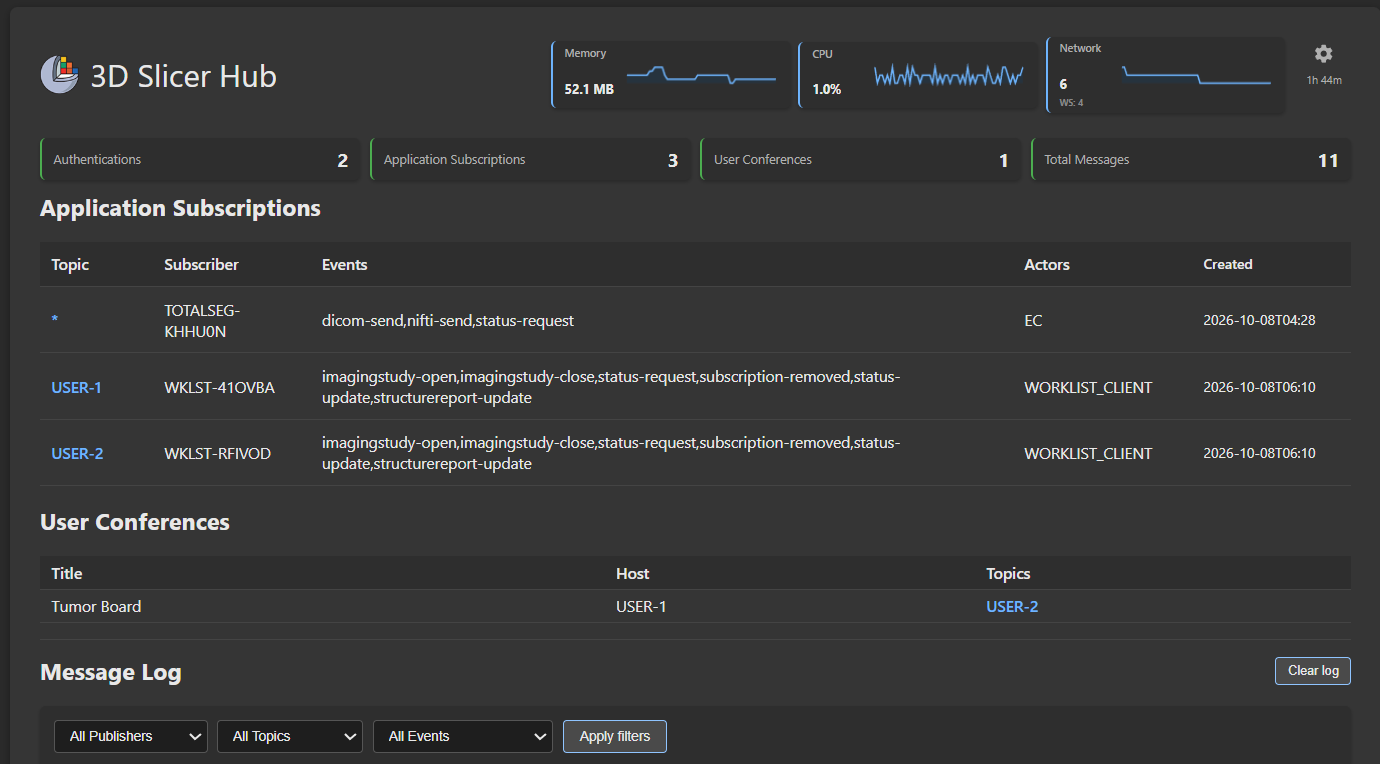
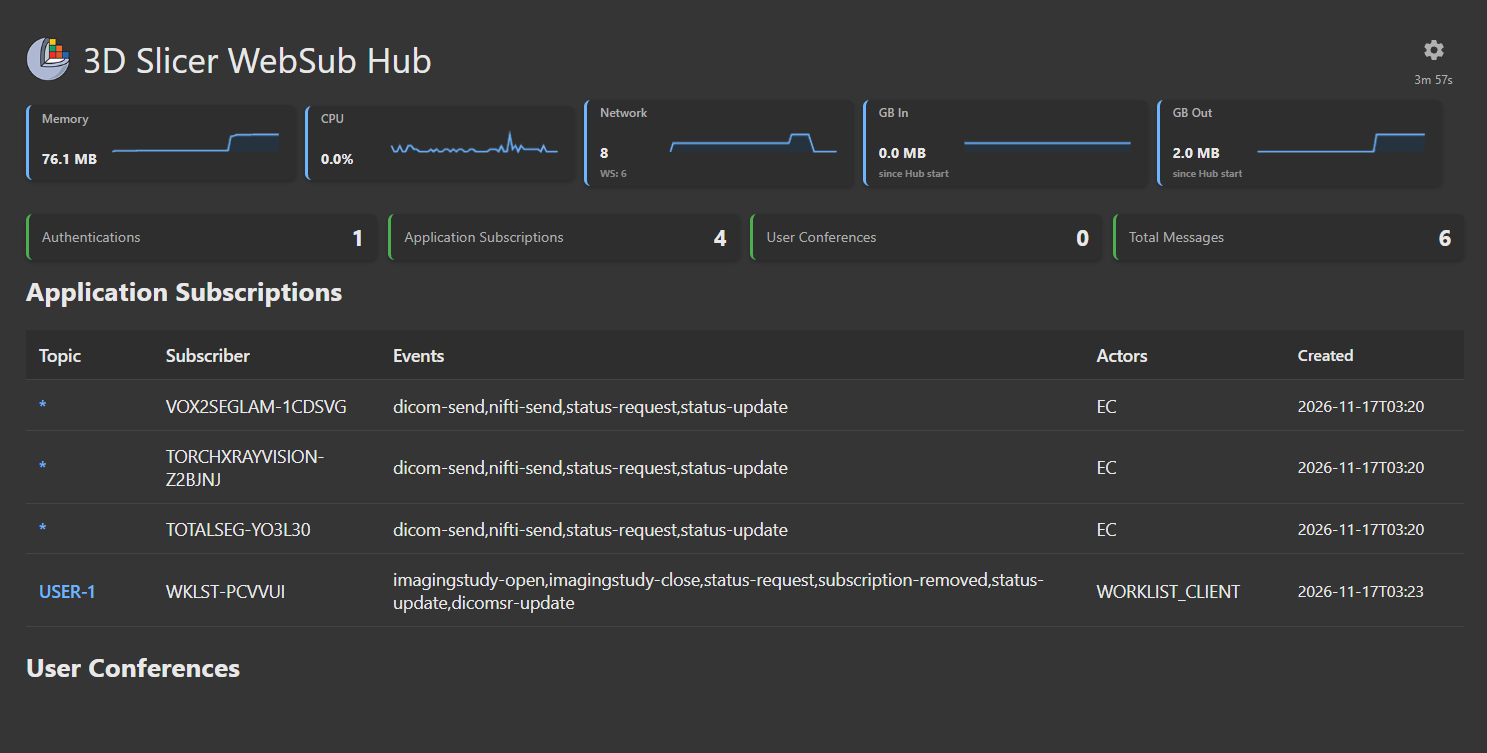
Enhance README.md with new worker control image

diff --git a/WebSubInterface/hub/Resources/admin.html b/WebSubInterface/hub/Resources/admin.html
@@ -3,7 +3,7 @@
 <head>
     <meta charset="UTF-8">
     <meta name="viewport" content="width=device-width, initial-scale=1.0">
-    <title>3D Slicer WebSub</title>
+    <title>3D Slicer WebSub Hub</title>
     <link rel="icon" id="app-favicon" type="image/png" href="/static/images/3DSlicer-DesktopIcon.png">
     <style>
         :root {
@@ -270,6 +270,7 @@
         h1.page-header {
             flex-wrap: wrap;
             justify-content: space-between;
+            align-items: center;
             gap: 12px;
             padding-bottom: 4px;
         }
@@ -534,11 +535,9 @@
             display: flex;
             gap: 8px;
             margin: 0;
-            flex-wrap: nowrap;
+            flex: 1 0 100%;
+            flex-wrap: wrap;
             align-items: center;
-        }
-        .header-actions .metrics-row {
-            margin-right: 4px;
         }
         .metric-card {
             background: var(--bg-muted);
@@ -1027,10 +1026,10 @@
             window.addEventListener('blur', deactivateShiftPolka);
             const isSlicer = theme === '3dslicer';
             const HUB_PRODUCT_NAME = isSlicer
-                ? '3D Slicer WebSub'
+                ? '3D Slicer WebSub Hub'
                 : 'Server Hub API';
             document.title = isSlicer
-                ? '3D Slicer WebSub'
+                ? '3D Slicer WebSub Hub'
                 : 'VolView Server Hub API';
             const favicon = document.getElementById('app-favicon');
             if (favicon) {
@@ -1102,41 +1101,9 @@
             <div class="header-brand">
                 <img class="header-logo-volview" src="/static/images/hub-radio-favicon.svg" alt="Hub">
                 <img class="header-logo-slicer" src="/static/images/3DSlicer-DesktopIcon.png" alt="3D Slicer">
-                <span class="header-title">3D Slicer WebSub</span>
+                <span class="header-title">3D Slicer WebSub Hub</span>
             </div>
             <div class="header-actions">
-                <div class="metrics-row">
-                    <div class="metric-card">
-                        <div class="metric-card-body">
-                            <div class="metric-card-text">
-                                <h3>Memory</h3>
-                                <span class="metric-value" id="metricMemoryValue">—</span>
-                                <div class="metric-sub" id="metricMemorySub"></div>
-                            </div>
-                            <canvas id="metricMemoryChart" width="160" height="24" aria-hidden="true"></canvas>
-                        </div>
-                    </div>
-                    <div class="metric-card">
-                        <div class="metric-card-body">
-                            <div class="metric-card-text">
-                                <h3>CPU</h3>
-                                <span class="metric-value" id="metricCpuValue">—</span>
-                            </div>
-                            <canvas id="metricCpuChart" width="160" height="24" aria-hidden="true"></canvas>
-                        </div>
-                    </div>
-                    <div class="metric-card" id="metricNetworkCard"
-                         title="Hub network connections (TCP and WebSocket)">
-                        <div class="metric-card-body">
-                            <div class="metric-card-text">
-                                <h3>Network</h3>
-                                <span class="metric-value" id="metricNetworkValue">—</span>
-                                <div class="metric-sub" id="metricNetworkSub"></div>
-                            </div>
-                            <canvas id="metricNetworkChart" width="160" height="24" aria-hidden="true"></canvas>
-                        </div>
-                    </div>
-                </div>
                 <span id="singleUserBadge" class="single-user-badge" style="display:none;" title="Token endpoint returns SINGLE-USER in this mode">Single-user mode</span>
                 <div class="hub-settings">
                     <div class="hub-settings-header">
@@ -1160,6 +1127,60 @@
                         </div>
                         <button type="button" id="hubAboutBtn" class="hub-settings-launch"
                                 onclick="showAboutHub()">About</button>
+                    </div>
+                </div>
+            </div>
+            <div class="metrics-row">
+                <div class="metric-card">
+                    <div class="metric-card-body">
+                        <div class="metric-card-text">
+                            <h3>Memory</h3>
+                            <span class="metric-value" id="metricMemoryValue">—</span>
+                            <div class="metric-sub" id="metricMemorySub"></div>
+                        </div>
+                        <canvas id="metricMemoryChart" width="160" height="24" aria-hidden="true"></canvas>
+                    </div>
+                </div>
+                <div class="metric-card">
+                    <div class="metric-card-body">
+                        <div class="metric-card-text">
+                            <h3>CPU</h3>
+                            <span class="metric-value" id="metricCpuValue">—</span>
+                        </div>
+                        <canvas id="metricCpuChart" width="160" height="24" aria-hidden="true"></canvas>
+                    </div>
+                </div>
+                <div class="metric-card" id="metricNetworkCard"
+                     title="Hub network connections (TCP and WebSocket)">
+                    <div class="metric-card-body">
+                        <div class="metric-card-text">
+                            <h3>Network</h3>
+                            <span class="metric-value" id="metricNetworkValue">—</span>
+                            <div class="metric-sub" id="metricNetworkSub"></div>
+                        </div>
+                        <canvas id="metricNetworkChart" width="160" height="24" aria-hidden="true"></canvas>
+                    </div>
+                </div>
+                <div class="metric-card" id="metricGbInCard"
+                     title="Host network bytes received since Hub start">
+                    <div class="metric-card-body">
+                        <div class="metric-card-text">
+                            <h3>GB In</h3>
+                            <span class="metric-value" id="metricGbInValue">—</span>
+                            <div class="metric-sub" id="metricGbInSub"></div>
+                        </div>
+                        <canvas id="metricGbInChart" width="160" height="24" aria-hidden="true"></canvas>
+                    </div>
+                </div>
+                <div class="metric-card" id="metricGbOutCard"
+                     title="Host network bytes sent since Hub start">
+                    <div class="metric-card-body">
+                        <div class="metric-card-text">
+                            <h3>GB Out</h3>
+                            <span class="metric-value" id="metricGbOutValue">—</span>
+                            <div class="metric-sub" id="metricGbOutSub"></div>
+                        </div>
+                        <canvas id="metricGbOutChart" width="160" height="24" aria-hidden="true"></canvas>
                     </div>
                 </div>
             </div>
@@ -1234,6 +1255,8 @@
             memory: [],
             cpu: [],
             network: [],
+            gbIn: [],
+            gbOut: [],
         };
         let metricsPollTimer = null;
         let adminTokenPrompted = false;
@@ -1483,6 +1506,25 @@
                 document.getElementById('metricNetworkChart'),
                 metricsHistory.network
             );
+            drawSparkline(
+                document.getElementById('metricGbInChart'),
+                metricsHistory.gbIn
+            );
+            drawSparkline(
+                document.getElementById('metricGbOutChart'),
+                metricsHistory.gbOut
+            );
+        }
+
+        function formatMetricGb(value) {
+            const n = Number(value);
+            if (!Number.isFinite(n)) {
+                return '—';
+            }
+            if (n < 0.01) {
+                return `${(n * 1024).toFixed(1)} MB`;
+            }
+            return `${n.toFixed(3)} GB`;
         }
 
         function formatHubUptime(seconds) {
@@ -1602,6 +1644,26 @@
                         card.title = tip;
                     }
                 }
+                const gbIn = Number(network.gb_in);
+                const gbOut = Number(network.gb_out);
+                if (Number.isFinite(gbIn)) {
+                    pushMetricSample('gbIn', gbIn);
+                    document.getElementById('metricGbInValue').textContent =
+                        formatMetricGb(gbIn);
+                    const sub = document.getElementById('metricGbInSub');
+                    if (sub) {
+                        sub.textContent = 'since Hub start';
+                    }
+                }
+                if (Number.isFinite(gbOut)) {
+                    pushMetricSample('gbOut', gbOut);
+                    document.getElementById('metricGbOutValue').textContent =
+                        formatMetricGb(gbOut);
+                    const sub = document.getElementById('metricGbOutSub');
+                    if (sub) {
+                        sub.textContent = 'since Hub start';
+                    }
+                }
                 redrawAllMetricCharts();
             } catch (err) {
                 console.warn('Metrics poll failed:', err);
@@ -1609,9 +1671,19 @@
                 document.getElementById('metricMemoryValue').textContent = '—';
                 document.getElementById('metricCpuValue').textContent = '—';
                 document.getElementById('metricNetworkValue').textContent = '—';
+                document.getElementById('metricGbInValue').textContent = '—';
+                document.getElementById('metricGbOutValue').textContent = '—';
                 const networkSub = document.getElementById('metricNetworkSub');
                 if (networkSub) {
                     networkSub.textContent = '';
+                }
+                const gbInSub = document.getElementById('metricGbInSub');
+                if (gbInSub) {
+                    gbInSub.textContent = '';
+                }
+                const gbOutSub = document.getElementById('metricGbOutSub');
+                if (gbOutSub) {
+                    gbOutSub.textContent = '';
                 }
             }
         }

diff --git a/WebSubInterface/hub/Lib/hub_metrics.py b/WebSubInterface/hub/Lib/hub_metrics.py
@@ -5,12 +5,14 @@ from __future__ import annotations
 import os
 import time
 from datetime import datetime, timezone
-from typing import Any, Dict, Optional
+from typing import Any, Dict, Optional, Tuple
 
 _process: Optional[Any] = None
 # Hub worker process lifetime (set when this module is first imported).
 _HUB_STARTED_AT = datetime.now(timezone.utc)
 _HUB_STARTED_MONO = time.monotonic()
+# Host net_io baseline at first metrics sample (GB in/out since hub start).
+_NET_IO_BASE: Optional[Tuple[int, int]] = None
 
 
 def _hub_process() -> Any:
@@ -21,6 +23,25 @@ def _hub_process() -> Any:
         _process = psutil.Process(os.getpid())
         _process.cpu_percent(interval=None)
     return _process
+
+
+def _network_bytes_since_start() -> Tuple[Optional[int], Optional[int]]:
+    """Host bytes received/sent since hub metrics baseline (first sample)."""
+    global _NET_IO_BASE
+    try:
+        import psutil
+
+        counters = psutil.net_io_counters()
+        if counters is None:
+            return None, None
+        recv = int(counters.bytes_recv)
+        sent = int(counters.bytes_sent)
+        if _NET_IO_BASE is None:
+            _NET_IO_BASE = (recv, sent)
+        base_recv, base_sent = _NET_IO_BASE
+        return max(0, recv - base_recv), max(0, sent - base_sent)
+    except (AttributeError, OSError, PermissionError, TypeError, ValueError):
+        return None, None
 
 
 def collect_hub_metrics(hub: Any, payload_store: Any) -> Dict[str, Any]:
@@ -60,6 +81,7 @@ def collect_hub_metrics(hub: Any, payload_store: Any) -> Dict[str, Any]:
     network_chart_value = (
         tcp_connections if tcp_connections is not None else websocket_total
     )
+    bytes_recv, bytes_sent = _network_bytes_since_start()
     network: Dict[str, Any] = {
         "chart_value": network_chart_value,
         "websocket_total": websocket_total,
@@ -68,6 +90,11 @@ def collect_hub_metrics(hub: Any, payload_store: Any) -> Dict[str, Any]:
     }
     if tcp_connections is not None:
         network["tcp_connections"] = tcp_connections
+    if bytes_recv is not None and bytes_sent is not None:
+        network["bytes_recv"] = bytes_recv
+        network["bytes_sent"] = bytes_sent
+        network["gb_in"] = round(bytes_recv / (1024**3), 3)
+        network["gb_out"] = round(bytes_sent / (1024**3), 3)
 
     return {
         "ts": datetime.now(timezone.utc).isoformat(),
